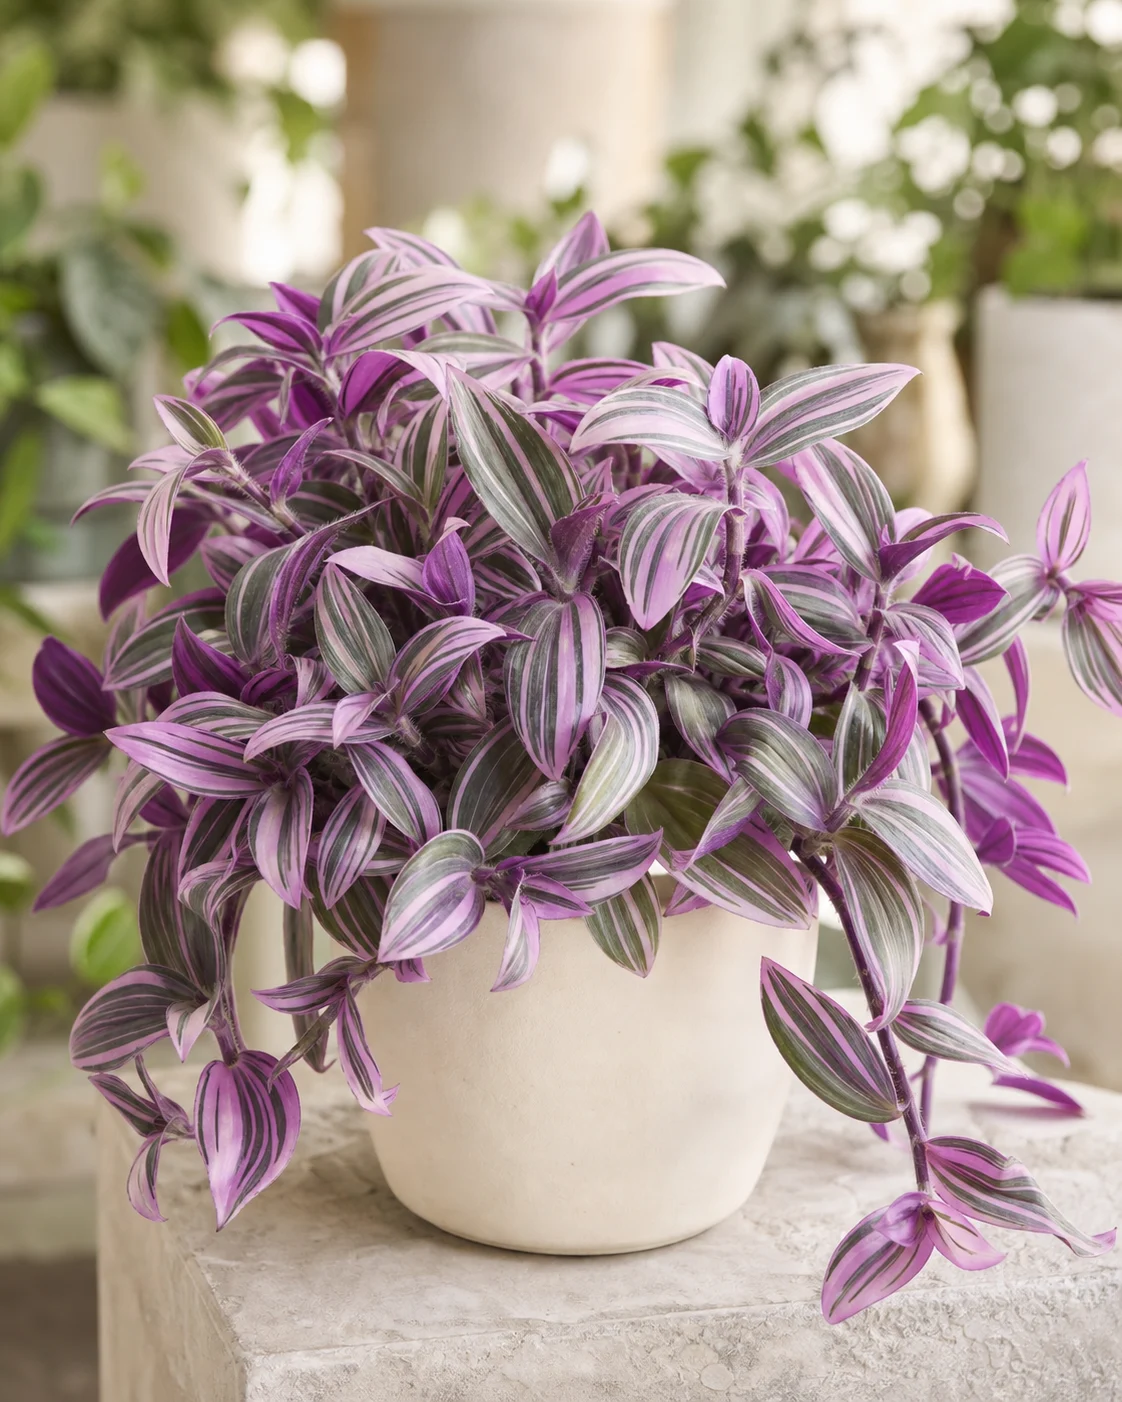
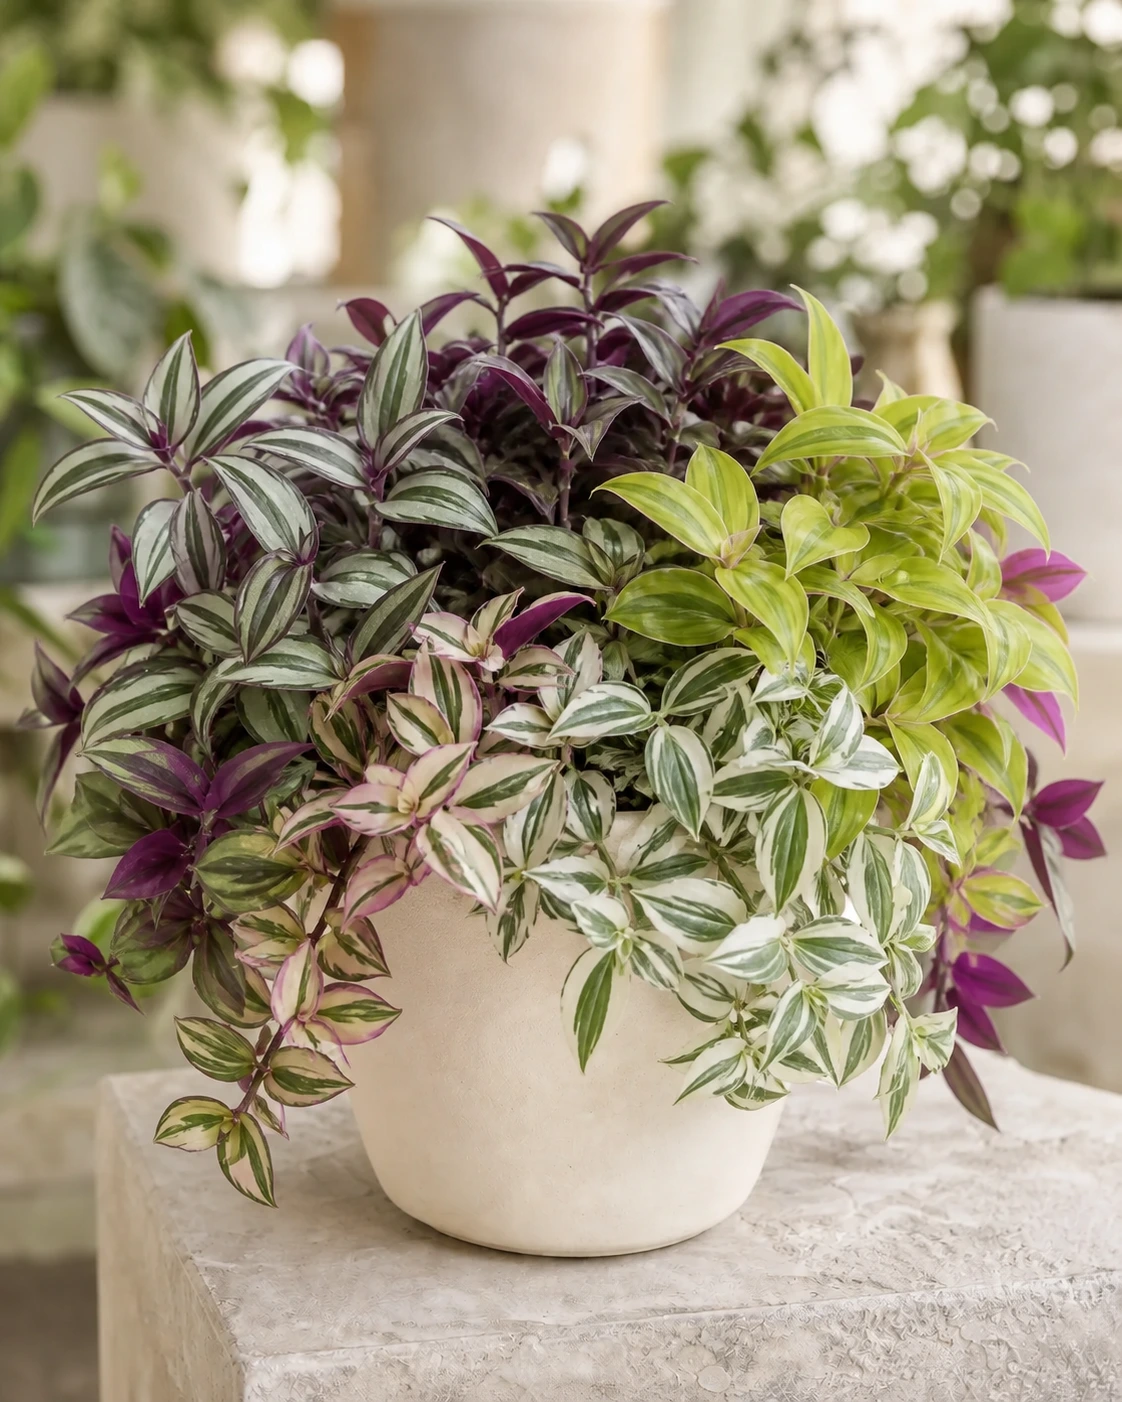
feat(collection): update tradescantia variants

diff --git a/src/entities/collection/model/collectionPlants.ts b/src/entities/collection/model/collectionPlants.ts
@@ -35,6 +35,8 @@ export interface CollectionPlant {
   readonly name: Record<Locale, string>;
   readonly plantCount: number;
   readonly profile: CollectionPlantProfile;
+  readonly profileMainImageInteractive: boolean;
+  readonly showProfileImageBadge: boolean;
 }
 
 interface PlantProfileFact {
@@ -85,6 +87,13 @@ interface ProfileAssets {
   readonly variants?: PlantProfileVariants;
 }
 
+interface CollectionPlantOptions {
+  readonly countCover?: boolean;
+  readonly plantCount?: number;
+  readonly profileMainImageInteractive?: boolean;
+  readonly showProfileImageBadge?: boolean;
+}
+
 const localized = ([en, ru]: LocalizedPair): Record<Locale, string> => ({ en, ru });
 
 const careCards = (...cards: readonly CareDefinition[]): readonly PlantProfileCareCard[] =>
@@ -126,8 +135,25 @@ const collectionPlant = (
   image: string,
   name: LocalizedPair,
   profile: CollectionPlantProfile,
-  plantCount = 1 + (profile.variants?.items.length ?? 0),
-): CollectionPlant => ({ familyId, id, image, name: localized(name), plantCount, profile });
+  countOrOptions: number | CollectionPlantOptions = {},
+): CollectionPlant => {
+  const options =
+    typeof countOrOptions === 'number' ? { plantCount: countOrOptions } : countOrOptions;
+  const plantCount =
+    options.plantCount ??
+    (options.countCover === false ? 0 : 1) + (profile.variants?.items.length ?? 0);
+
+  return {
+    familyId,
+    id,
+    image,
+    name: localized(name),
+    plantCount,
+    profile,
+    profileMainImageInteractive: options.profileMainImageInteractive ?? true,
+    showProfileImageBadge: options.showProfileImageBadge ?? true,
+  };
+};
 
 const plantProfile = (
   care: readonly PlantProfileCareCard[],
@@ -6880,10 +6906,26 @@ const allCollectionPlants: readonly CollectionPlant[] = [
             '/plant-profile/tradescantia-variants/zebrina-silver.webp',
             ['Zebrina Burgundy — silver coloration', 'Зебрина Бургунди — серебристая окраска'],
           ],
-          ['/plant-profile/tradescantia-variants/green.webp', ['Green form', 'Зелёная форма']],
+          ['/plant-profile/tradescantia-variants/green.webp', ['Baby Bunny', 'Бэби Банни']],
           [
             '/plant-profile/tradescantia-variants/purpurea.webp',
             ['Pallida', 'Паллида'],
+          ],
+          [
+            '/plant-profile/tradescantia-variants/pallida-blue-sue.webp',
+            ['Pallida Blue Sue', 'Паллида Блю Сью'],
+          ],
+          [
+            '/plant-profile/tradescantia-variants/thai.webp',
+            ['Thai', 'Тайская'],
+          ],
+          [
+            '/plant-profile/tradescantia-variants/yellow-hill.webp',
+            ['Yellow Hill', 'Желтый холм'],
+          ],
+          [
+            '/plant-profile/tradescantia-variants/fluminensis.webp',
+            ['T. fluminensis', 'Приречная'],
           ],
           [
             '/plant-profile/tradescantia-variants/white-pinstripe.webp',
@@ -6891,28 +6933,28 @@ const allCollectionPlants: readonly CollectionPlant[] = [
           ],
           [
             '/plant-profile/tradescantia-variants/green-purple.webp',
-            ['Green-purple form', 'Зелёно-пурпурная форма'],
+            ['Green Rhoeo', 'Рео зеленый'],
           ],
           [
             '/plant-profile/tradescantia-variants/variegated.webp',
             ['Variegated gibasis', 'Гибазис вариегатный'],
           ],
           [
-            '/plant-profile/tradescantia-variants/dark-green-striped.webp',
-            ['Dark green striped form', 'Тёмно-зелёная полосатая форма'],
-          ],
-          [
             '/plant-profile/tradescantia-variants/white.webp',
             ['White Albiflora', 'Белая Альбифлора'],
           ],
-          ['/plant-profile/tradescantia-variants/gold.webp', ['Gold', 'Голд']],
+          ['/plant-profile/tradescantia-variants/gold.webp', ['Sitara Gold', 'Ситара Голд']],
           [
             '/plant-profile/tradescantia-variants/sillamontana.webp',
-            ['T. sillamontana', 'Силламонтана'],
+            ['T. sillamontana Velvet Hill', 'Силламонтана Вельвет хилл'],
           ],
           [
             '/plant-profile/tradescantia-variants/sillamontana-variegated.webp',
             ['Variegated T. sillamontana', 'Силламонтана вариегатная'],
+          ],
+          [
+            '/plant-profile/tradescantia-variants/navicularis.webp',
+            ['T. navicularis', 'Ладьевидная'],
           ],
           [
             '/plant-profile/tradescantia-variants/hijau-bari.webp',
@@ -6937,7 +6979,11 @@ const allCollectionPlants: readonly CollectionPlant[] = [
         ),
       },
     ),
-    17,
+    {
+      countCover: false,
+      profileMainImageInteractive: false,
+      showProfileImageBadge: false,
+    },
   ),
   collectionPlant(
     'commelinaceae',

diff --git a/src/pages/Home/ui/PlantProfileTemplate/components/ProfileSummary/ProfileSummary.tsx b/src/pages/Home/ui/PlantProfileTemplate/components/ProfileSummary/ProfileSummary.tsx
@@ -12,6 +12,9 @@ interface ProfileSummaryProps {
   readonly text: ProfileCopy;
 }
 
+const getOpenPhotoLabel = (locale: Locale, plantName: string) =>
+  locale === 'ru' ? `Открыть фотографию: ${plantName}` : `Open photo: ${plantName}`;
+
 export const ProfileSummary = ({ locale, onImageOpen, plant, text }: ProfileSummaryProps) => (
   <Grid gap="12px" gridTemplateColumns={{ base: '1fr', md: '0.64fr 1.36fr' }}>
     <Box
@@ -30,30 +33,33 @@ export const ProfileSummary = ({ locale, onImageOpen, plant, text }: ProfileSumm
         zIndex: 2,
       }}
     >
-      <Text
-        background="#526c2d"
-        borderRadius="0 0 8px 0"
-        color="#fffaf0"
-        fontSize="0.72rem"
-        fontWeight={800}
-        left={0}
-        padding="8px 12px"
-        position="absolute"
-        textTransform="uppercase"
-        top={0}
-        zIndex={1}
-      >
-        {locale === 'ru' ? 'Моё растение' : 'My plant'}
-      </Text>
+      {plant.showProfileImageBadge ? (
+        <Text
+          background="#526c2d"
+          borderRadius="0 0 8px 0"
+          color="#fffaf0"
+          fontSize="0.72rem"
+          fontWeight={800}
+          left={0}
+          padding="8px 12px"
+          position="absolute"
+          textTransform="uppercase"
+          top={0}
+          zIndex={1}
+        >
+          {locale === 'ru' ? 'Моё растение' : 'My plant'}
+        </Text>
+      ) : null}
       <Button
         aria-label={
-          locale === 'ru'
-            ? `Открыть фотографию: ${plant.name[locale]}`
-            : `Open photo: ${plant.name[locale]}`
+          plant.profileMainImageInteractive
+            ? getOpenPhotoLabel(locale, plant.name[locale])
+            : undefined
         }
         borderRadius={0}
-        cursor="zoom-in"
+        cursor={plant.profileMainImageInteractive ? 'zoom-in' : 'default'}
         display="block"
+        disabled={!plant.profileMainImageInteractive}
         height="100%"
         lineHeight={0}
         minWidth={0}
@@ -62,9 +68,14 @@ export const ProfileSummary = ({ locale, onImageOpen, plant, text }: ProfileSumm
         type="button"
         variant="plain"
         width="100%"
-        onClick={onImageOpen}
+        onClick={plant.profileMainImageInteractive ? onImageOpen : undefined}
+        _disabled={{ opacity: 1 }}
         _focusVisible={{ outline: '3px solid #718d4f', outlineOffset: '-3px' }}
-        _hover={{ '& img': { transform: 'scale(1.04)' } }}
+        _hover={
+          plant.profileMainImageInteractive
+            ? { '& img': { transform: 'scale(1.04)' } }
+            : undefined
+        }
       >
         <Image
           alt={plant.name[locale]}

diff --git a/src/pages/Home/ui/PlantProfileTemplate/PlantProfileTemplate.tsx b/src/pages/Home/ui/PlantProfileTemplate/PlantProfileTemplate.tsx
@@ -38,8 +38,10 @@ export const PlantProfileTemplate = ({
     variantImages[requestedMainImageVariantIndex] !== undefined
       ? requestedMainImageVariantIndex
       : null;
+  const includeMainImageInGallery =
+    plant.profileMainImageInteractive && mainImageVariantIndex === null;
   const galleryImages =
-    mainImageVariantIndex === null
+    includeMainImageInGallery
       ? [{ alt: plant.name[locale], src: plant.image }, ...variantImages]
       : variantImages;
 
@@ -66,7 +68,7 @@ export const PlantProfileTemplate = ({
           locale={locale}
           plant={plant}
           onImageOpen={(variantIndex) =>
-            setActiveImageIndex(variantIndex + (mainImageVariantIndex === null ? 1 : 0))
+            setActiveImageIndex(variantIndex + (includeMainImageInGallery ? 1 : 0))
           }
         />
         <ProfileCare locale={locale} plant={plant} />

diff --git a/docs/architecture/frontend.md b/docs/architecture/frontend.md
@@ -118,13 +118,16 @@ derived from one source.
   from a catalog card. It renders an individual plant's localized entity data:
   title, taxonomy, photos, difficulty, practical care, and a note. Profiles can
   also opt into a reusable variants gallery for plants represented by several
-  colours or forms. The main photograph and every variant image open in the
-  same responsive lightbox; multi-image profiles provide wrapping previous and
-  next controls plus keyboard navigation, while single-image profiles retain a
-  simple enlarged view. When the main photograph depicts one of the named
-  variants, entity data links it to that variant's gallery position so the
-  lightbox uses the variant caption and does not repeat the image. The first
-  profile is the real Cissus rhombifolia record in `entities/collection`.
+  colours or forms. By default, the main photograph and every variant image open
+  in the same responsive lightbox; multi-image profiles provide wrapping
+  previous and next controls plus keyboard navigation, while single-image
+  profiles retain a simple enlarged view. A grouped overview photograph can opt
+  out of interaction and gallery counting when it illustrates the collection
+  rather than an individual plant, as in the Tradescantia profile. When the main
+  photograph depicts one of the named variants, entity data links it to that
+  variant's gallery position so the lightbox uses the variant caption and does
+  not repeat the image. The first profile is the real Cissus rhombifolia record
+  in `entities/collection`.
 - The reusable category detail modal frame and sections live in
   `ui/CategoryDetailModal`, `ui/CategoryHero`, `ui/CategoryInfoGrid`,
   `ui/CategoryCollectionSection`, `ui/InfoPanel`, and `ui/SproutIcon`.
